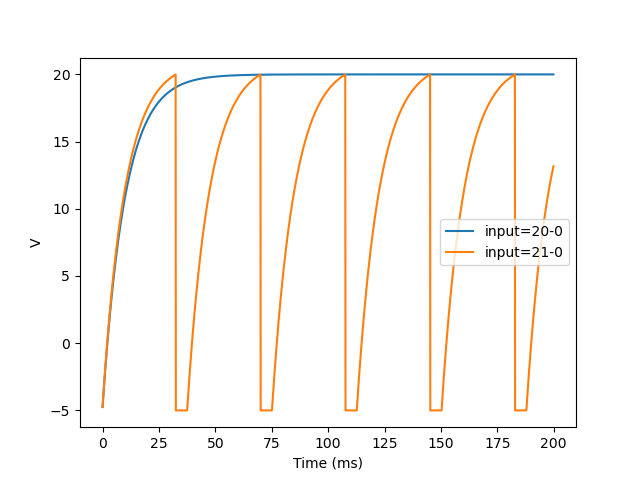
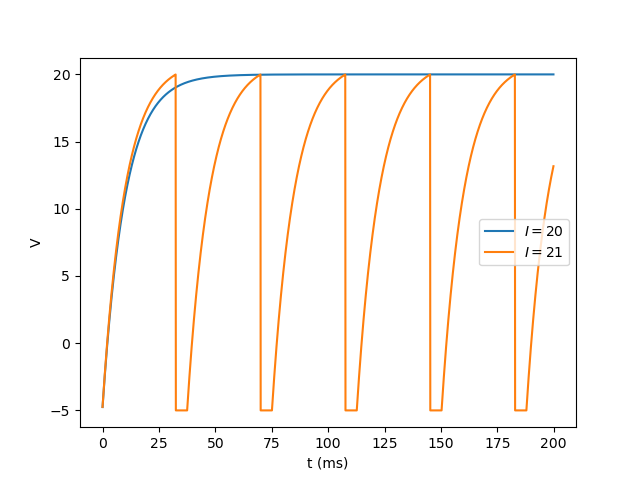
modifications

Changed region(s): [[0.6875, 0.4375, 0.875, 0.5625], [0.4688, 0.9375, 0.5625, 1.0]]

diff --git a/model_analysis/LIF_analysis.py b/model_analysis/LIF_analysis.py
@@ -5,31 +5,38 @@ from neuron_models.LIF_model import *
 import numpy as np
 import matplotlib.pyplot as plt
 
-duration = 1000  # 设定仿真时长
-I_cur = np.arange(0, 600, 2)  # 定义大小为10, 20, ..., 1000的100束电流
-
-neu = LIF(len(I_cur), tau=5., t_ref=5.)  # 定义神经元群
-runner = bp.StructRunner(neu, monitors=['spike'], inputs=('input', I_cur), dt=0.01)  # 设置运行器，其中每一个神经元接收I_cur的一个恒定电流
-runner(duration=duration)  # 运行神经元模型
-f_list = runner.mon.spike.sum(axis=0) / (duration / 1000)  # 计算每个神经元的脉冲发放次数
-bp.visualize.line_plot(I_cur, f_list, xlabel='Input current', ylabel='spiking frequency', show=True)  # 画出曲线
-
-# plt.plot(I_cur, f_list, marker='.')
+# duration = 1000  # 设定仿真时长
+# I_cur = np.arange(0, 600, 2)  # 定义大小为10, 20, ..., 1000的100束电流
+#
+# neu = LIF(len(I_cur), tau=5., t_ref=5.)  # 定义神经元群
+# runner = bp.StructRunner(neu, monitors=['spike'], inputs=('input', I_cur), dt=0.01)  # 设置运行器，其中每一个神经元接收I_cur的一个恒定电流
+# runner(duration=duration)  # 运行神经元模型
+# f_list = runner.mon.spike.sum(axis=0) / (duration / 1000)  # 计算每个神经元的脉冲发放次数
+# # bp.visualize.line_plot(I_cur, f_list, xlabel='Input current', ylabel='spiking frequency', show=True)  # 画出曲线
+#
+# plt.plot(I_cur, f_list)
 # plt.xlabel('Input current')
 # plt.ylabel('spiking frequency')
 # plt.show()
 
 
-# duration = 200
-#
-# neu1 = LIF(1, t_ref=5.)
-# neu1.V[:] = bm.array([-5.])
-# runner = bp.StructRunner(neu1, monitors=['V'], inputs=('input', 20))  # 给neu1一个大小为20的恒定电流
-# runner(duration)
+duration = 200
+
+neu1 = LIF(1, t_ref=5.)
+neu1.V[:] = bm.array([-5.])
+runner = bp.StructRunner(neu1, monitors=['V'], inputs=('input', 20))  # 给neu1一个大小为20的恒定电流
+runner(duration)
 # bp.visualize.line_plot(runner.mon.ts, runner.mon.V, ylabel='V', legend='input=20', show=False)
-#
-# neu2 = LIF(1, t_ref=5.)
-# neu2.V[:] = bm.array([-5.])
-# runner = bp.StructRunner(neu2, monitors=['V'], inputs=('input', 21))  # 给neu2一个大小为21的恒定电流
-# runner(duration)
+plt.plot(runner.mon.ts, runner.mon.V, label='$I = 20$')
+
+neu2 = LIF(1, t_ref=5.)
+neu2.V[:] = bm.array([-5.])
+runner = bp.StructRunner(neu2, monitors=['V'], inputs=('input', 21))  # 给neu2一个大小为21的恒定电流
+runner(duration)
 # bp.visualize.line_plot(runner.mon.ts, runner.mon.V, ylabel='V', legend='input=21', show=True)
+plt.plot(runner.mon.ts, runner.mon.V, label='$I = 21$')
+
+plt.xlabel('t (ms)')
+plt.ylabel('V')
+plt.legend()
+plt.show()

diff --git a/neuron_models/QIF_model.py b/neuron_models/QIF_model.py
@@ -1,5 +1,6 @@
 import brainpy as bp
 import brainpy.math as bm
+import matplotlib.pyplot as plt
 
 
 class QIF(bp.NeuGroup):
@@ -45,11 +46,15 @@ class QIF(bp.NeuGroup):
     self.input[:] = 0.  # 重置外界输入
 
 
-# # 运行QIF模型
-# group = QIF(10)
-# runner = bp.StructRunner(group, monitors=['V'], inputs=('input', 6.))
-# runner(500)  # 运行时长为500ms
-# bp.visualize.line_plot(runner.mon.ts, runner.mon.V, show=True)
+# 运行QIF模型
+group = QIF(1)
+runner = bp.StructRunner(group, monitors=['V'], inputs=('input', 6.))
+runner(500)  # 运行时长为500ms
+# 结果可视化
+plt.plot(runner.mon.ts, runner.mon.V)
+plt.xlabel('t (ms)')
+plt.ylabel('V')
+plt.show()
 
 
 # duration = 500

diff --git a/model_analysis/HindmarshRose_analysis.py b/model_analysis/HindmarshRose_analysis.py
@@ -73,7 +73,7 @@ phase_plane_analyzer.plot_nullcline(x_style=dict(color='cornflowerblue', fmt='--
 phase_plane_analyzer.plot_fixed_point()
 
 # 画出向量场
-phase_plane_analyzer.plot_vector_field(plot_style=dict(color='lightgrey'))
+phase_plane_analyzer.plot_vector_field(plot_style=dict(color='lightgrey', density=1.))
 
 # 画出V, y的变化轨迹
 phase_plane_analyzer.plot_trajectory(
